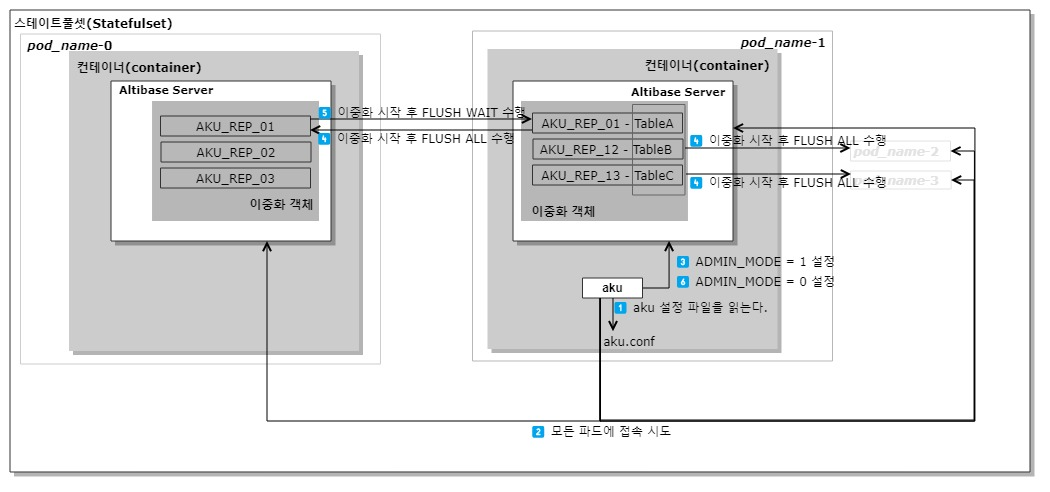
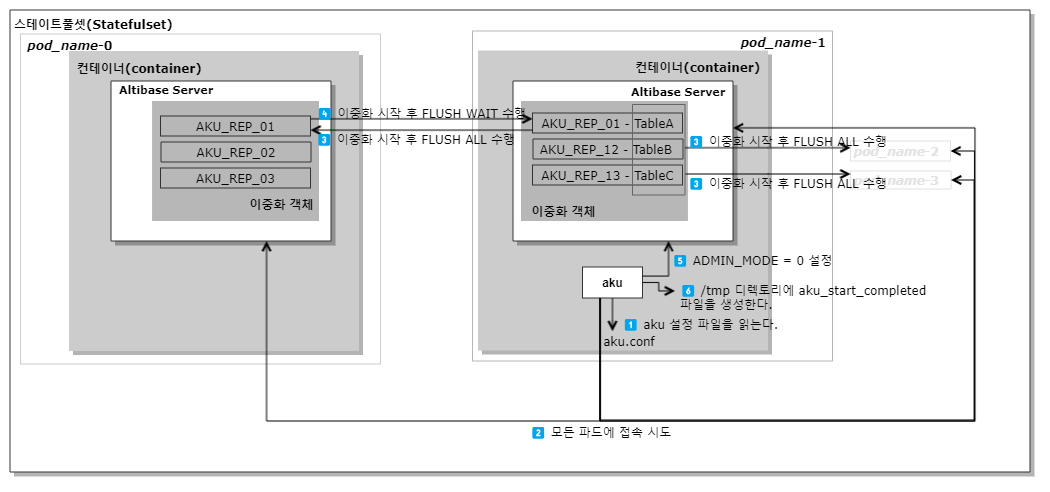
BUG-50145 반영으로 그림 수정 및 오타 수정
BUG-50145 반영으로 그림 수정 및 오타 수정

diff --git a/Manuals/Altibase_trunk/kor/Utilities Manual.md b/Manuals/Altibase_trunk/kor/Utilities Manual.md
@@ -2106,7 +2106,7 @@ aku(Altibase Kubernetes Utility)는 쿠버네티스의 스테이트풀셋(Statef
 
 > 스테이트풀셋은 데이터베이스처럼 상태 유지가 필요한 애플리케이션을 지원하기 위한 쿠버네티스의 워크로드 컨트롤러 중 하나이며, 스케일링은 파드를 생성하거나 종료하는 것을 의미한다. 파드는 컨테이너들을 담고 있는 쿠버네티스의 리소스이며, 이 컨테이너에 Altibase 서버가 실행된다. 
 
-스테이트풀셋에서 스케일 업/다운할 때 아래의 조건에 해당하는 파드를 생성하거나 종료하고자 할 때 aku 유틸리티를 사용할 수 있다. 이때, aku 유틸리티가 Altibase 컨테이너에서 실행되도록 적당한 위치에 명령어를 추가해야 한다.
+스테이트풀셋에서 스케일 업/다운할 때 아래의 조건에 해당하는 파드를 생성하거나 종료하고자 할 때 aku 유틸리티를 사용한다.
 
 #### 스케일 업
 
@@ -2121,7 +2121,9 @@ aku(Altibase Kubernetes Utility)는 쿠버네티스의 스테이트풀셋(Statef
 
 aku 유틸리티는 실행 파일과 설정 파일로 구성된다. 
 
-> ⚠ 모든 파드에서 실행하는 aku 실행 파일은 같은 버전을 사용해야 하며 aku 설정 파일 내 프로퍼티도 같은 값을 가져야 한다. 일반적으로 aku 실행 파일과 aku 설정 파일은 Altibase 컨테이너 이미지에 포함되어 있다. 
+> ⚠ 모든 파드에서 실행하는 aku 실행 파일은 같은 버전을 사용해야 하며, aku 설정 파일 내 프로퍼티도 같은 값을 가져야 한다. 일반적으로 aku 실행 파일과 aku 설정 파일은 Altibase 컨테이너 이미지에 포함되어 있다. 
+>
+> Altibase 서버와 aku는 같은 컨테이너에서 실행해야 한다.
 
 ### aku 실행 파일
 
@@ -2129,7 +2131,7 @@ aku 유틸리티는 실행 파일과 설정 파일로 구성된다.
 
 ### aku 설정 파일
 
-aku를 실행하면 aku 설정 파일을 가장 먼저 읽어 Altibase 데이터 동기화에 필요한 정보를 얻는다. aku 설정 파일의 이름은 aku.conf이며 $ALTIBASE_HOME/conf에 위치해야 한다. Altibase 패키지에 aku.conf.sample 이름의 예제 파일을 제공하므로 aku를 실행하기 전에 이 파일을 참고하여 aku.conf를 생성해야 한다. aku 설정 파일의 내용은 아래와 같다. 
+aku를 실행하면 aku 설정 파일을 가장 먼저 읽어 Altibase 데이터 동기화에 필요한 정보를 얻는다. aku 설정 파일의 이름은 aku.conf이며 $ALTIBASE_HOME/conf에 위치해야 한다. Altibase 패키지에 aku.conf.sample 이름의 예제 파일을 제공하므로, aku를 실행하기 전에 이 파일을 참고하여 aku.conf를 생성해야 한다. aku 설정 파일의 내용은 아래와 같다. 
 
 ~~~bash
 # aku.conf.sample
@@ -2245,7 +2247,7 @@ aku 설정 파일의 내용을 출력한다. 파일에 문법(syntax) 오류가 
 
 #### **start**
 
-Altibase 이중화 객체를 생성하고 데이터를 동기화하는 작업을 수행한다. 파드를 생성할 때 이용할 수 있다. start 명령의 상세 동작을 살펴보자.
+Altibase 이중화 객체를 생성하고 데이터를 동기화하는 작업을 수행한다. 파드를 생성할 때 이용한다. start 명령의 상세 동작을 살펴보자.
 
 - ***첫 번째 파드 생성 시***
 
@@ -2263,6 +2265,8 @@ Altibase 이중화 객체를 생성하고 데이터를 동기화하는 작업을
   3⃣ 이중화 대상 서버인 모드 파드에 접속을 시도한다. 하지만 다른 파드가 생성되기 전이기 때문에 접속 시도 시 에러가 발생한다. 이는 정상적인 동작이다. 
 
   4⃣ *pod_name*-0에서 생성한 모든 이중화 객체를 대상으로 ALTER REPLICATION *replication_name* START를 수행한다. 하지만 다른 파드가 생성되기 전이기 때문에 이중화 시작은 실패한다. 다른 파드가 생성되고 이중화 할 수 있는 준비가 되면 이중화가 시작된다. 이것은 정상적인 동작이다. 
+
+  5⃣ /tmp 디렉토리에 aku_start_completed 파일을 생성한다.
 
 - ***스케일 업(Scale up)***
 
@@ -2341,11 +2345,13 @@ Altibase 이중화 객체를 생성하고 데이터를 동기화하는 작업을
   
   4⃣ *pod_name*-1에서 *pod_name*-0, *pod_name*-2, *pod_name*-3 으로 이중화를 시작하고, 모든 파드에 이중화 시작을 요청한다. *pod_name*-2, *pod_name*-3은 생성되기 전이기 때문에 이중화 시작은 실패한다. 이는 정상적인 동작이다. *pod_name*-2, *pod_name*-3이 생성되고 이중화 할 수 있는 준비가 되면 각 파드에서 aku -p start 수행으로 이중화가 시작된다. 
   
+  5⃣ /tmp 디렉토리에 aku_start_completed 파일을 생성한다.
+  
   
 
 #### **end**
 
-Altibase 이중화를 중지하고 초기화하는 작업을 수행한다. 파드를 종료할 때 이용할 수 있다. 
+Altibase 이중화를 중지하고 초기화하는 작업을 수행한다. 파드를 종료할 때 이용한다. 
 
 <div align="left">
     <img src="media/Utilities/aku_p_end.jpg"></img>
